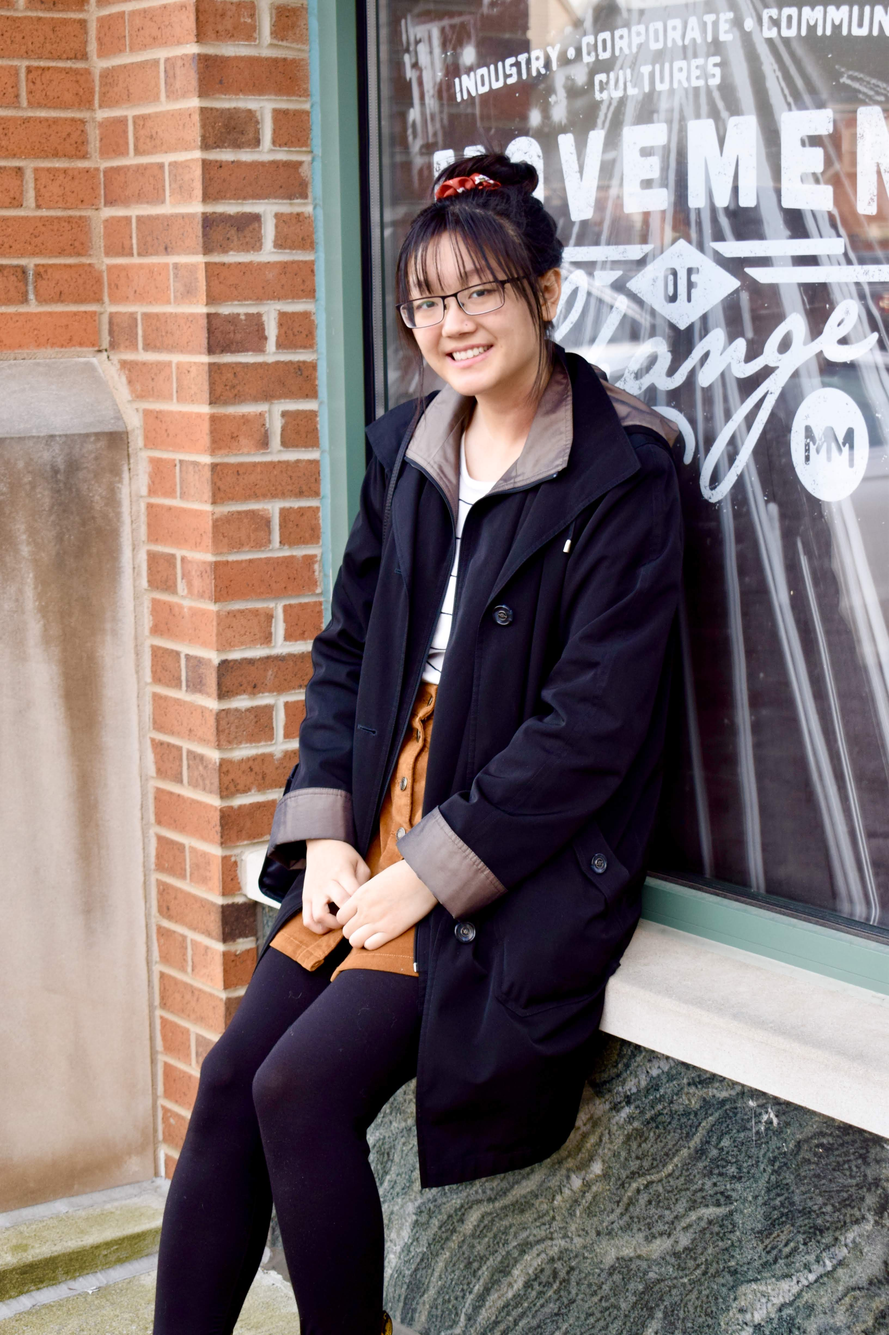
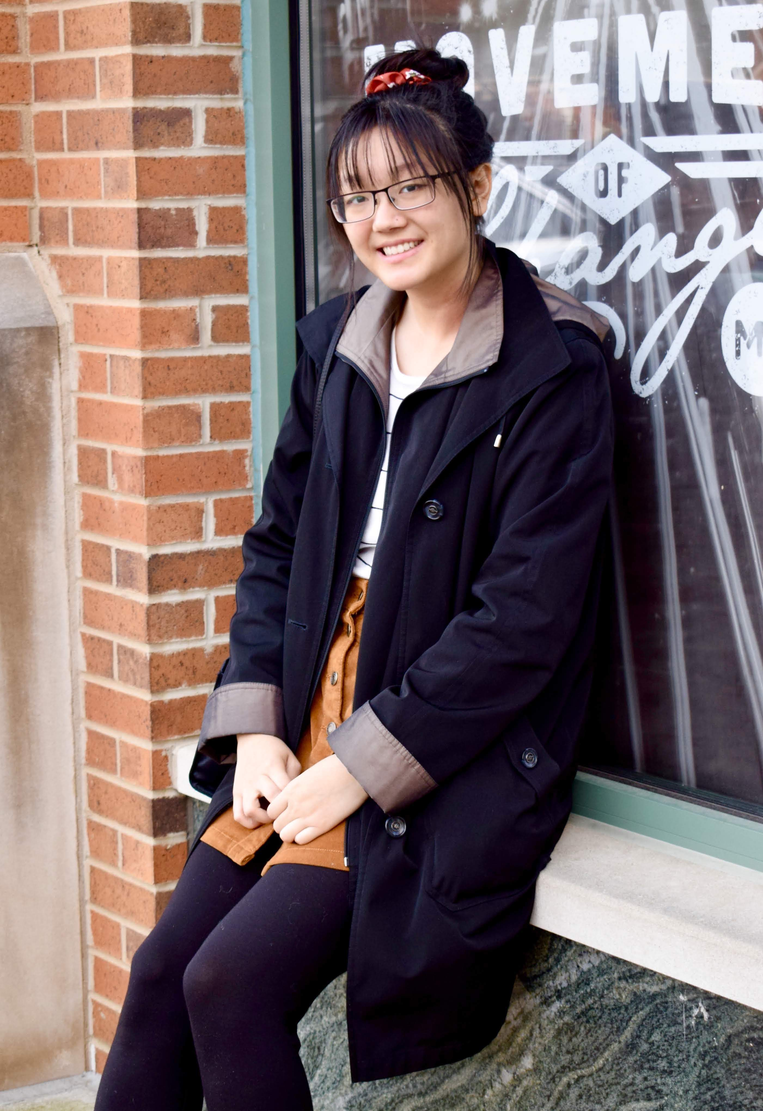
asdf

diff --git a/main.css b/main.css
@@ -37,8 +37,8 @@ p{
 }
 
 .profilepic {
-    height: 500px;
-    width: 333px;
+    height: 480px;
+    width: 320px;
     margin-left: 100px;
     margin-top: 20px;
     border-radius: 15px;
